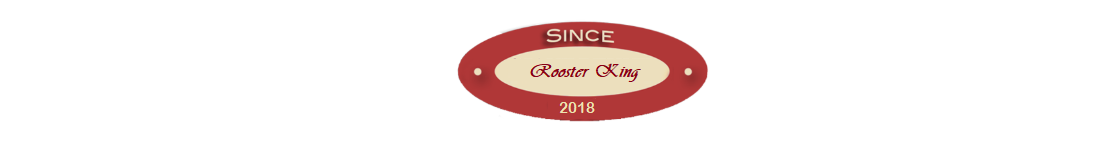
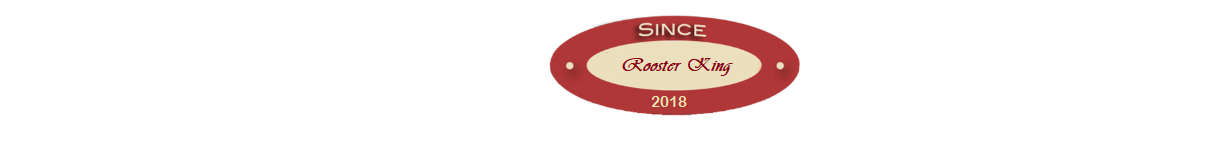
Footer fixes

Changed region(s): [[0.3989, 0.0845, 0.6751, 0.8732]]

diff --git a/index.html b/index.html
@@ -15,33 +15,42 @@
 
     <!-- Custom styles for this template -->
     <link href="css/half-slider.css" rel="stylesheet">
-
+	 <link href="assets/css/custom-styles.css" rel="stylesheet">
+	
   </head>
+   
 
   <body>
 
     <!-- Navigation -->
-    <nav class="navbar navbar-expand-lg navbar-dark  fixed-top">
-      <div class="container">
-        <a class="navbar-brand" href="#">Tengahuku Logo</a>
-        <button class="navbar-toggler" type="button" data-toggle="collapse" data-target="#navbarResponsive" aria-controls="navbarResponsive" aria-expanded="false" aria-label="Toggle navigation">
-          <span class="navbar-toggler-icon"></span>
-        </button>
-        <div class="collapse navbar-collapse" id="navbarResponsive">
-          <ul class="navbar-nav ml-auto">
-            <li class="nav-item active">
-              <a class="nav-link" href="#">Home
-                <span class="sr-only">(current)</span>
-              </a>
-            </li>
-            <li class="nav-item">
-              <a class="nav-link" href="aboutus.html">About</a>
-            </li>
+	
+	
+    <nav class="navbar navbar-expand-lg navbar-light " style="background-color: #e6e6ff;>
+      <div class="container-fluid">
+			<a class="navbar-brand" href="#"></a>
+				<button class="navbar-toggler" type="button" data-toggle="collapse" data-target="#navbarResponsive" aria-controls="navbarResponsive" aria-expanded="false" aria-label="Toggle navigation">
+			<span class="navbar-toggler-icon"></span>
+			</button>
+			<div class="collapse navbar-collapse" id="navbarResponsive">
+				<ul class="navbar-nav ml-auto">
+					<li class="nav-item active">
+					<a class="nav-link" href="#"  >Home
+					<span class="sr-only">(current)</span>
+				</a>
+				</li>
+			
+				<li class="nav-item">
+				<a class="nav-link" href="aboutus.html"   >About</a>
+				<ul class="dropdown-menu">
+                <li><a href="#">Action</a></li>
+                <li><a href="#">Another action</a></li>
+                <li><a href="#">Something else here</a></li>
+                <li class="divider"></li>
+                <li><a href="#">Separated link</a></li>
+              </ul>
+				</li>
 			<li class="nav-item">
-              <a class="nav-link" href="products.html">The Team</a>
-            </li>
-			<li class="nav-item">
-              <a class="nav-link" href="products.html">Brooder House</a>
+              <a class="nav-link" href="products.html" >Brooder House</a>
             </li>
 			<li class="nav-item">
               <a class="nav-link" href="products.html">Biosecurity & Innovation</a>
@@ -60,10 +69,15 @@
             </li>
           </ul>
         </div>
-      </div>
+      
+	  </div>
     </nav>
+	
+	
 
     <header>
+	
+	
       <div id="carouselExampleIndicators" class="carousel slide" data-ride="carousel">
         <ol class="carousel-indicators">
           <li data-target="#carouselExampleIndicators" data-slide-to="0" class="active"></li>
@@ -109,7 +123,7 @@
             </div>
           </div>
 		  <div class="carousel-item" style="background-image: url('assets/img/SlidePic3.jpg'')">
-            <div class="carousel-caption d-none d-md-block">
+            <div class="carousel-caption d-none d-md-block" >
               <h3>6th  Slide</h3>
               <p>This is a description for the fifth slide.</p>
             </div>
@@ -124,22 +138,30 @@
           <span class="sr-only">Next</span>
         </a>
       </div>
+	
     </header>
 
     <!-- Page Content -->
     <section class="py-5">
-      <div class="container">
-        <h1>Half Slider by Start Bootstrap</h1>
-        <p>The background images for the slider are set directly in the HTML using inline CSS. The rest of the styles for this template are contained within the
-          <code>half-slider.css</code>
-          file.</p>
-      </div>
+	 <div class="div-since-start">
+      <img id="pic-since-start" src="assets/img/SinceStartDate.png"/>
+    </div>
+      <!-- <div class="container"> -->
+        <!-- <h1>Half Slider by Start Bootstrap</h1> -->
+        <!-- <p>The background images for the slider are set directly in the HTML using inline CSS. The rest of the styles for this template are contained within the -->
+          <!-- <code>half-slider.css</code> -->
+          <!-- file.</p> -->
+      <!-- </div> -->
     </section>
+	
+	 <!-- <div class="test"> -->
+      <!-- <img src="assets/img/SinceStartDate.png" align="center"/> -->
+    <!-- </div> -->
 
     <!-- Footer -->
     <footer class="py-5 bg-dark">
       <div class="container">
-        <p class="m-0 text-center text-white">Copyright &copy; Your Website 2018</p>
+        <p class="m-0 text-center text-white">Copyright &copy;  2018 Tengahuku. All Rights Reserved</p>
       </div>
       <!-- /.container -->
     </footer>

diff --git a/assets/css/custom-styles.css b/assets/css/custom-styles.css
@@ -1,0 +1,118 @@
+@import url('https://fonts.googleapis.com/css?family=Lato:300,400');
+
+html, body {
+  font-family: 'Lato', serif;  
+}
+
+.navbar-default {
+  font-size: 1.15em;
+  font-weight: 400;
+  background-color: #006b96;
+  padding: 10px;
+  border: 0px;
+  border-radius: 0px;
+}
+
+.navbar-default .navbar-nav>li>a {
+  color: white;
+}
+
+.navbar-default .navbar-nav>li>a:hover {
+  color: #cbf0ff;
+}
+
+.navbar-default .navbar-brand {
+  color: #002433;
+}
+
+.navbar-default .navbar-brand:hover {
+  color: #ffffff;
+  text-shadow: 1px -1px 8px #b3e9ff;
+}
+
+.navbar-default .navbar-nav>.open>a, .navbar-default .navbar-nav>.open>a:hover, .navbar-default .navbar-nav>.open>a:focus {
+  background-color: #004059;
+  color: white;
+}
+
+.navbar-default .navbar-toggle {
+  border: none;
+}
+
+.navbar-default .navbar-collapse, .navbar-default .navbar-form {
+  border: none;
+}
+
+.navbar-default .navbar-toggle:hover, .navbar-default .navbar-toggle:focus {
+  background-color: #002433;
+}
+
+.navbar-default .navbar-toggle .icon-bar {
+  background-color: #ffffff;
+}
+
+.dropdown-menu {
+  background-color: #004059;
+  color: white;
+  border: 0px;
+  border-radius: 2px;
+  padding-top: 10px;
+  padding-bottom: 10px;
+}
+
+.dropdown-menu>li>a {
+  background-color: #004059;
+  color: white;
+}
+
+.dropdown-menu>li>a:hover, .dropdown-menu>li>a:focus {
+  background-color: #004059;
+  color:white;
+}
+
+.dropdown-menu .divider {
+    height: 1px;
+    margin: 9px 0;
+    overflow: hidden;
+    background-color: #003246;
+}
+
+.navbar-default .navbar-nav .open .dropdown-menu>li>a {
+    color: #ffffff;
+}
+
+@media (max-width: 767px) { 
+  .dropdown-menu>li>a {
+    background-color: #006b96;
+    color: #ffffff;
+  }
+  .dropdown-menu>li>a:hover {
+    color: #ffffff;
+  }
+  
+  .navbar-default .navbar-nav .open .dropdown-menu>li>a:focus, .navbar-default .navbar-nav .open .dropdown-menu>li>a:hover {
+    color: #ffffff;
+    background-color: transparent;
+  }
+  
+  .dropdown-menu .divider {
+    height: 1px;
+    margin: 9px 0;
+    overflow: hidden;
+    background-color: #005577;
+  }
+  
+  #div-since-start{
+	  padding-left:400px;
+	  
+	  
+  }
+  
+  #pic-since-start{
+	  
+		 margin-left: auto;
+  
+}
+
+
+

diff --git a/where-to-find-us.html b/where-to-find-us.html
@@ -16,6 +16,7 @@
 	<script src="assets/js/jquery.kwicks.min.js"></script>
 	<script src="assets/js/jquery-3.3.1.min.js"></script>
 	<script src='assets/js/bootstrap.min.js'></script>
+	
     <!-- Internet Explorer HTML5 enabling script: -->
 
     <!--[if IE]>
